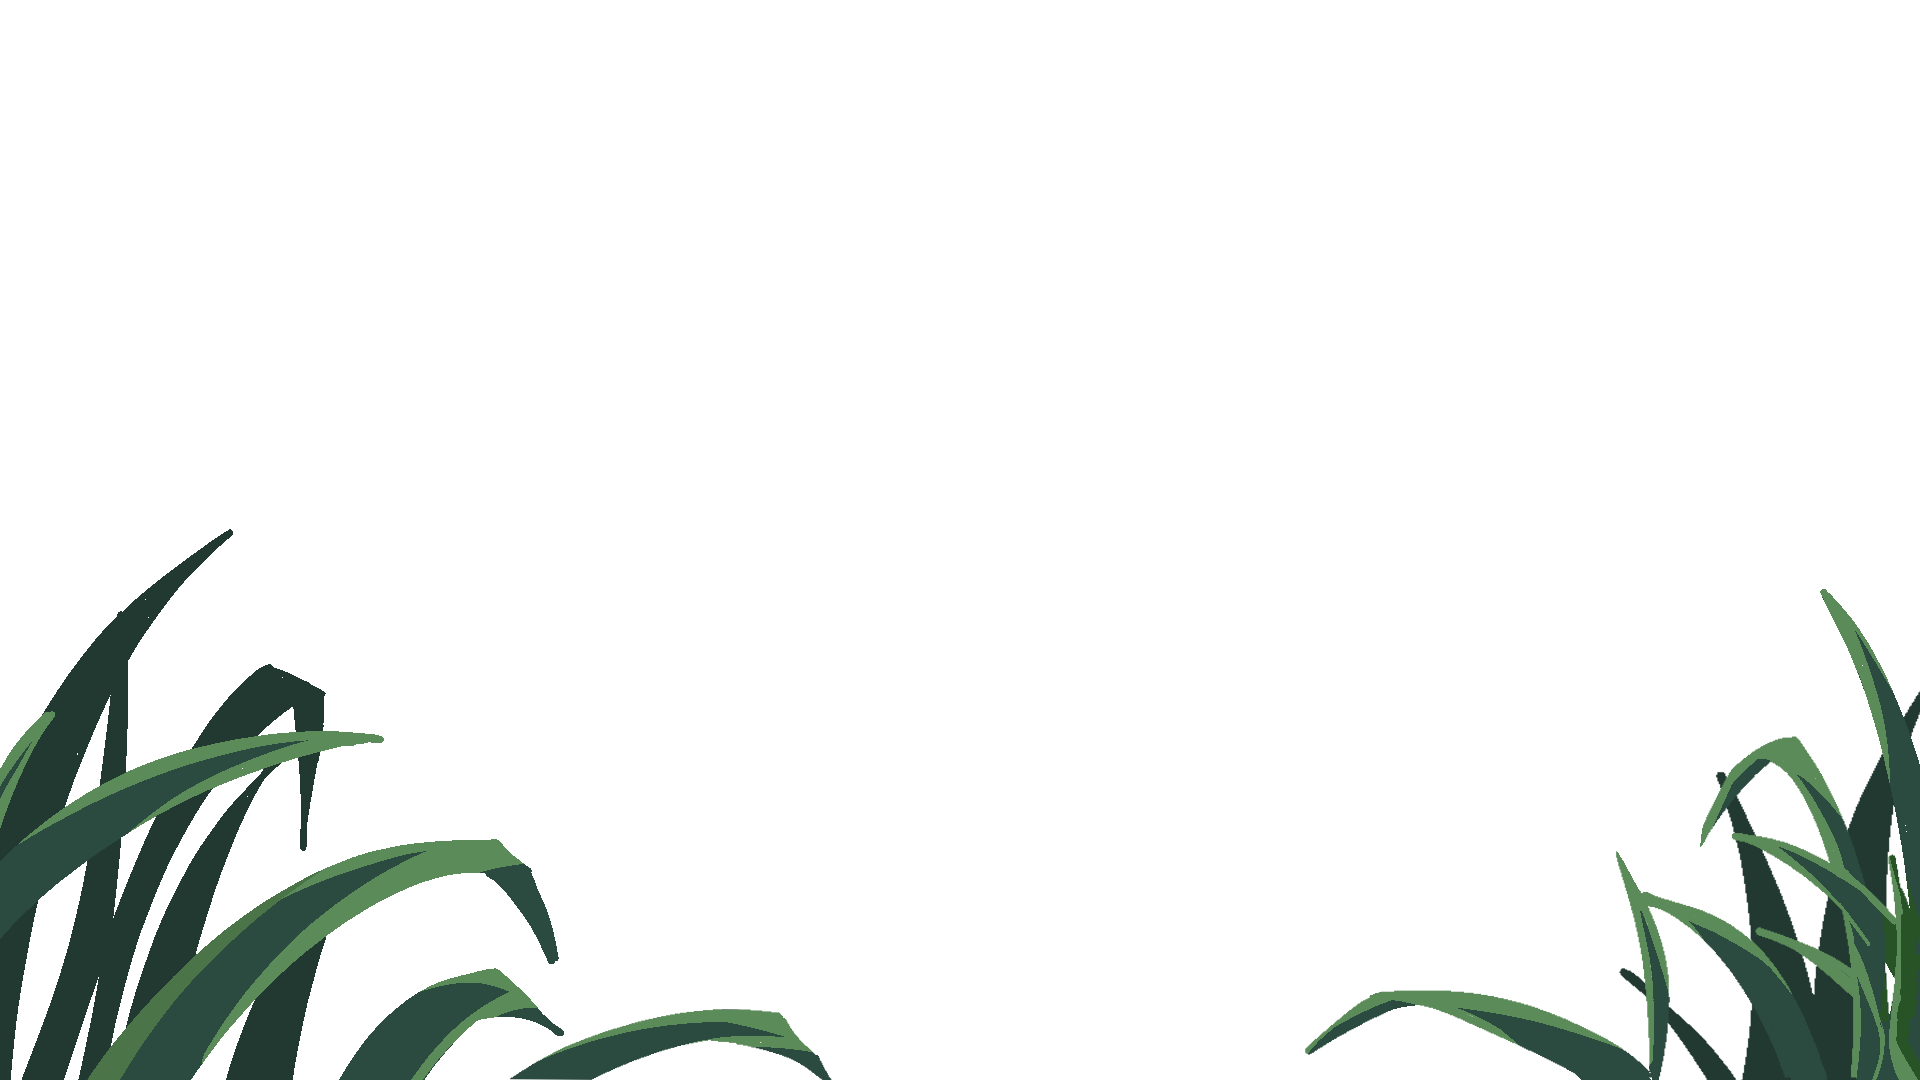
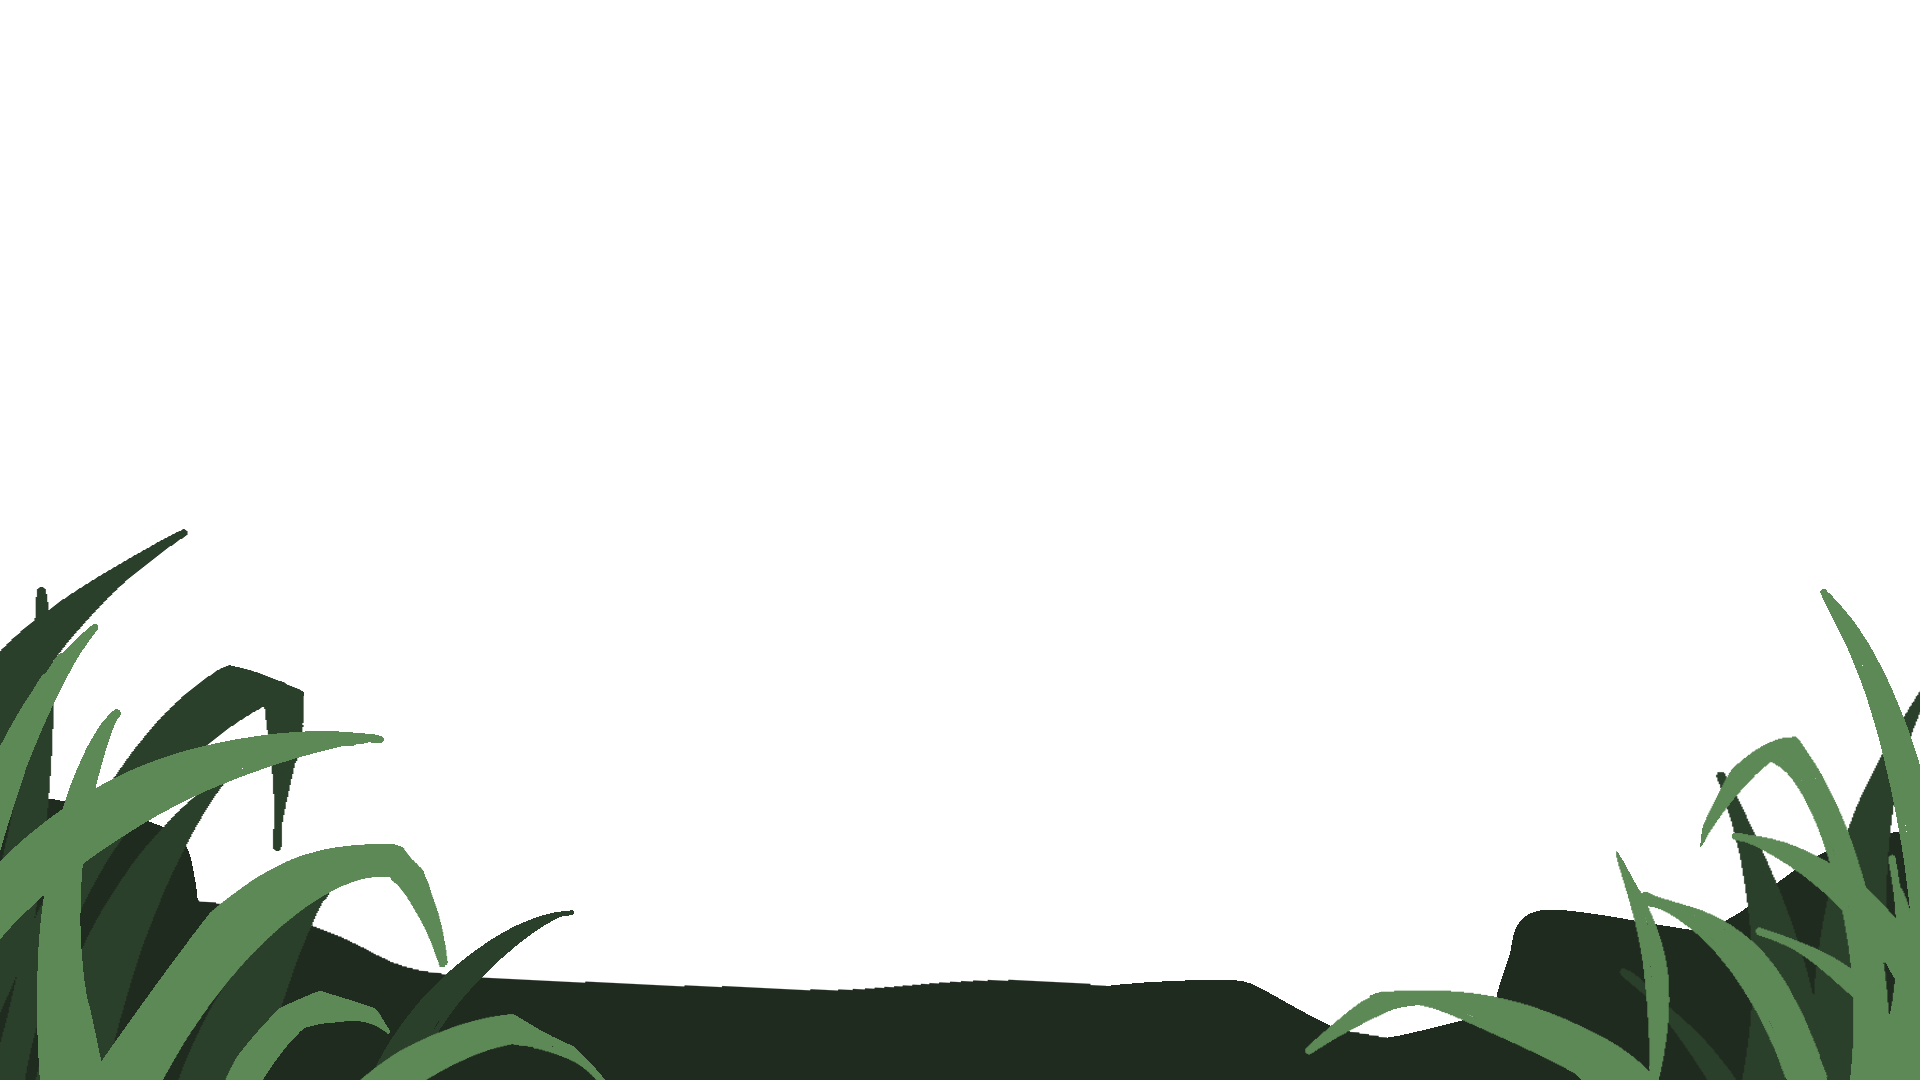
foreground work

Changed region(s): [[0.0, 0.4889, 1.0, 1.0], [0.9062, 0.7028, 0.9375, 0.7333]]

diff --git a/style.css b/style.css
@@ -1,6 +1,6 @@
 * {
-  --darkModeFormBackground: rgb(32, 34, 37);
-  --darkModeFormTextBox: rgb(59, 64, 68);
+  --darkModeFormBackground: rgba(32, 35, 37, 0.94);
+  --darkModeFormTextBox: rgb(22, 23, 24);
   --darkModeFormIconBackground: rgb(91, 95, 100);
   --darkModeFormSubjectHover: rgb(111, 113, 117);
   --green: #3d814b;
@@ -32,18 +32,16 @@ body {
 }
 
 html {
-  background: url(/images/background.png) no-repeat center center fixed;
-  background-size: cover;
-  height: 100%;
+  background: rgb(9,88,125);
+background: linear-gradient(180deg, rgba(9,88,125,1) 0%, rgba(63,147,164,1) 37%, rgba(166,232,219,1) 100%);
   overflow: hidden;
 }
 
 #plantsBottom {
   position: absolute;
-  height: 100%;
-  width: 100%;
-  top: 0px;
-  left: 0px;
+  bottom: -10px;
+  left: 50%;
+  transform: translate(-50%, 0%);
 }
 
 input {

diff --git a/interface.js b/interface.js
@@ -324,7 +324,7 @@ function formCheck(formName) {
 
   if (subject.textContent == "---- N/A ----") { // Subject not filled in
     subject.style.border = "2px rgb(202, 0, 0) solid"; // red
-    subject.style.color = "rgb(59, 64, 68)";
+    subject.style.color = "rgb(22, 23, 24)";
     addButton.style.width = "23px";
     addButton.style.height = "20px";
     addButton.style.top = "24px";

diff --git a/newtab.html b/newtab.html
@@ -22,6 +22,8 @@
 
   <body>
 
+    <img id="plantsBottom" src="images/plantsBottom.png">
+
     <div id="grid">
 
       <div id="gridHeader"></div>
@@ -243,7 +245,6 @@
       </div>
 
       <div id="gridFooter">
-        <img id="plantsBottom" src="images/plantsBottom.png">
         <div id="footerLeftSpace"></div>
         <div id="quoteArea">
           <p id="quote"></p> 
